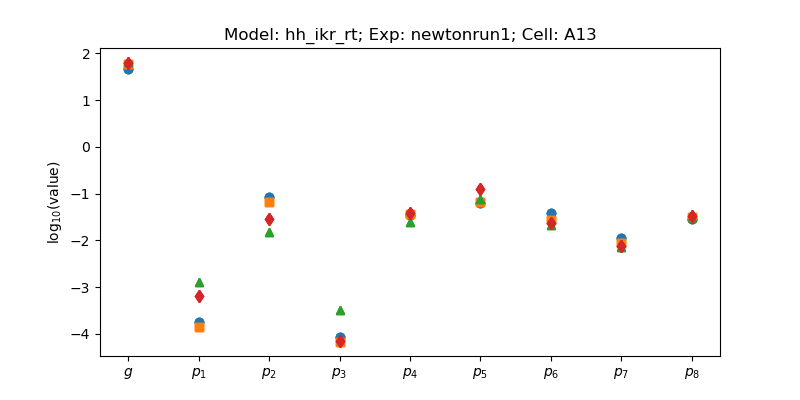
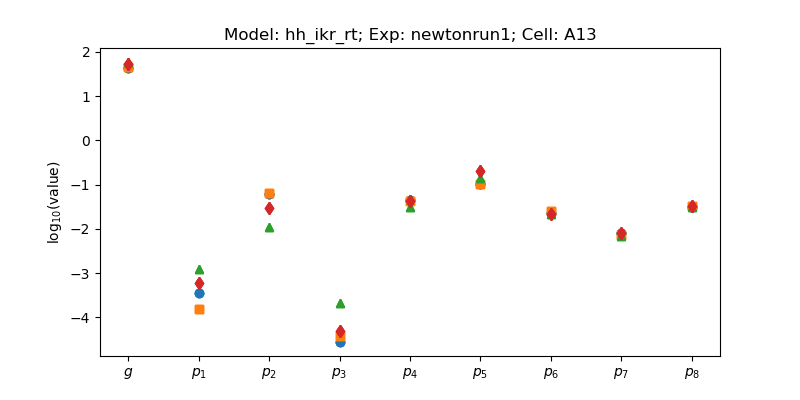
Add figs

diff --git a/newton/plot.py b/newton/plot.py
@@ -7,7 +7,7 @@ import matplotlib.pyplot as plt
 expid = 'newtonrun1'
 prtids = ['staircaseramp', 'sis', 'hh3step', 'wang3step']
 cell = 'A13'
-infoid = 'hh_ikr_rt'
+infoid = 'wang_ikr_rt'
 seed = '542811797'
 markers = ['o', 's', '^', 'd']
 
@@ -21,10 +21,11 @@ for i_prt, prtid in enumerate(prtids):
     folder = './out/' + infoid + '-' + prtid
     for i in range(3):
         if i == 0:
-            p = np.loadtxt('%s/solution-newtonrun1-A03-542811797.txt' % folder)
+            p = np.loadtxt('%s/solution-newtonrun1-%s-542811797.txt' \
+                    % (folder, cell))
         else:
-            p = np.loadtxt('%s/solution-newtonrun1-A03-542811797-%s.txt' \
-                    % (folder, i + 1))
+            p = np.loadtxt('%s/solution-newtonrun1-%s-542811797-%s.txt' \
+                    % (folder, cell, i + 1))
         plt.plot(range(len(p)), np.log10(p), ls='', marker=markers[i_prt],
                 c='C' + str(i_prt), label='__nolegend__' if i else prtid)
 
